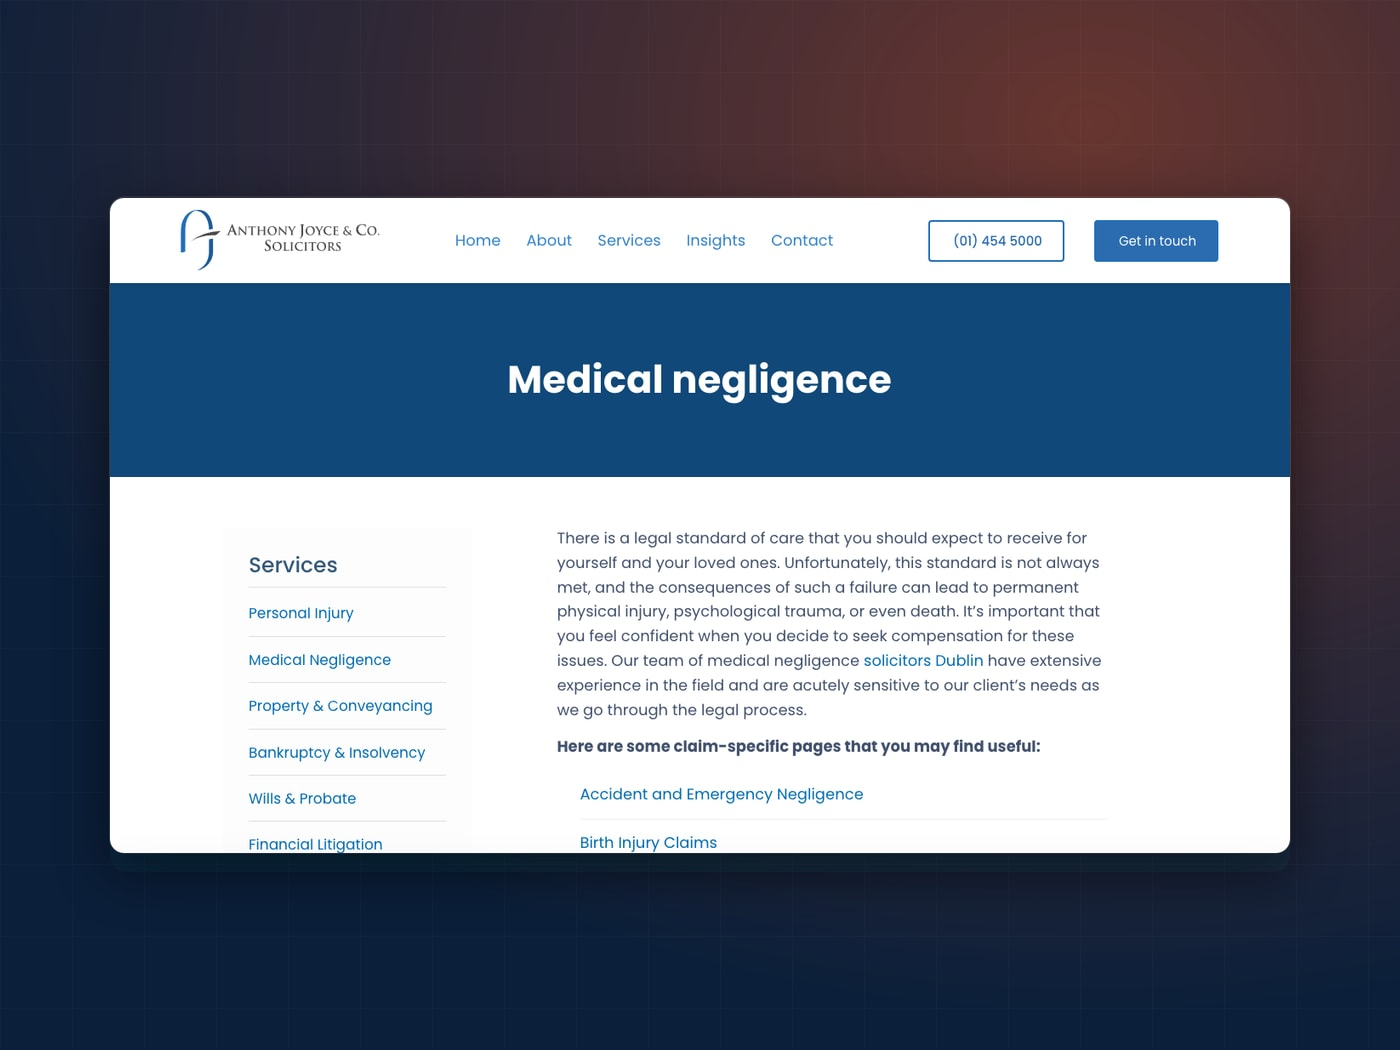
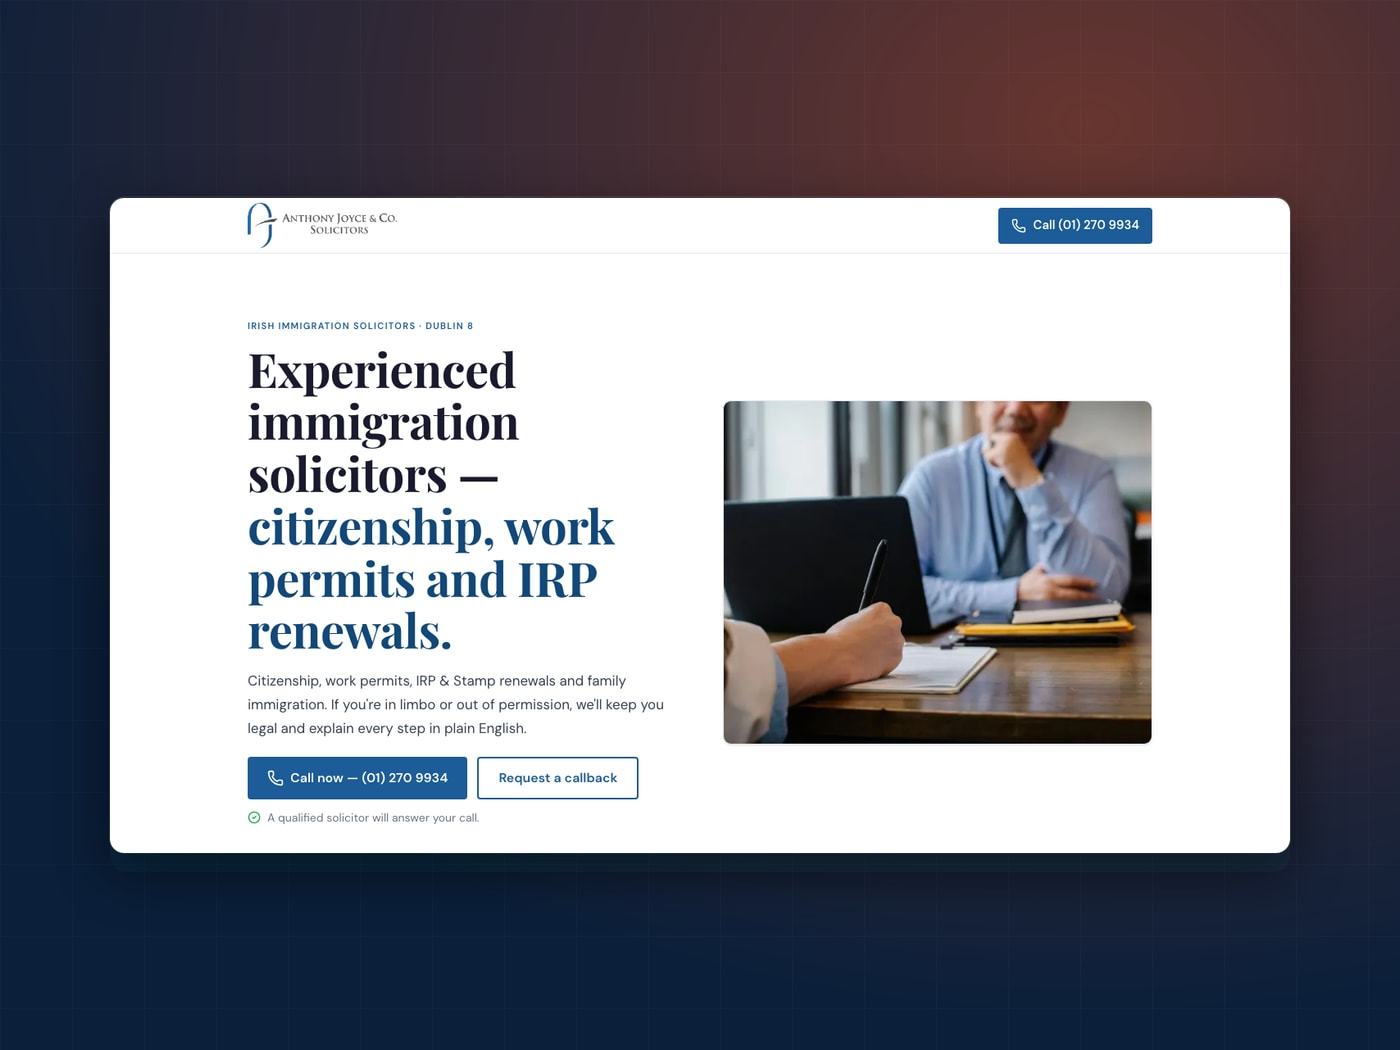
feat(work): the actual landing pages, not the clients' main sites
immigration.anthonyjoyce.ie      was anthonyjoyce.ie/medical-negligence
  trial.byrocktechnologies.com     was byrocktechnologies.com
  saloot.de/collections/speicher   was saloot.de

Descriptions rewritten from what the pages do. The Byrock page recruits
horse owners for a research evaluation of an investigational laminitis
treatment, where nothing about the product can be claimed. The Anthony
Joyce page is immigration work built around a phone number rather than a
form.

Also corrects the client's location. I had written Dublin 1 in three
places; the landing page and the original testimonial both say Dublin 8.

Changed region(s): [[0.0614, 0.1829, 0.9214, 0.8229], [0.3993, 0.7924, 0.5221, 0.8229]]

diff --git a/starkdigital/src/components/v3/Work.tsx b/starkdigital/src/components/v3/Work.tsx
@@ -2,33 +2,34 @@ import Image from 'next/image'
 import Reveal from './Reveal'
 
 /**
- * Each image is a screenshot of the live site, taken at 1440px and set on the
- * brand background. Regenerate them if a client redesigns.
+ * Each image is a screenshot of the live page, taken headless at 1440px and set
+ * on the brand background. These are the landing pages themselves, not the
+ * clients' main sites, because the section claims pages I built.
  */
 const PROJECTS = [
   {
     image: '/images/v3/work-1.jpg',
     client: 'Anthony Joyce & Co.',
-    url: 'anthonyjoyce.ie',
-    sector: 'Solicitors, Dublin',
-    built: 'Practice-area landing pages and Google Ads',
-    note: 'A separate page per practice area, each written for the search that brings the visitor, with call tracking wired back to the campaign that produced the call.',
+    url: 'immigration.anthonyjoyce.ie',
+    sector: 'Solicitors, Dublin 8',
+    built: 'Immigration landing page and the campaign behind it',
+    note: 'Citizenship, work permits and IRP renewals, aimed at people who are out of permission and want to talk to somebody today. So the page is built around the phone number rather than a form, and says plainly that a qualified solicitor answers the call.',
   },
   {
     image: '/images/v3/work-2.jpg',
     client: 'Byrock Technologies',
-    url: 'byrocktechnologies.com',
-    sector: 'Equine health, Ireland',
-    built: 'Site build and a Google Ads funnel',
-    note: 'A treatment for laminitis sold to a small, specific audience. When the addressable market is that narrow, the page doing its job matters far more than the size of the budget.',
+    url: 'trial.byrocktechnologies.com',
+    sector: 'Veterinary research, Ohio',
+    built: 'Trial recruitment page and paid search',
+    note: 'Recruiting horse owners for a research evaluation of an investigational laminitis treatment. Nothing about the product can be claimed, which removes every normal persuasion lever and leaves the page to do the work through clarity alone.',
   },
   {
     image: '/images/v3/work-3.jpg',
     client: 'Saloot',
     url: 'saloot.de',
     sector: 'E-commerce, Germany',
-    built: 'Shopify storefront and savings calculator',
-    note: 'Balcony solar kits, sold to people who work out the payback period before they buy. So the shop leads with a calculator that answers that question instead of burying it in a spec table.',
+    built: 'Shopify storefront and category pages',
+    note: 'Battery storage for balcony solar, bought by people who work out the payback before they order. The category page leads with capacity, cell chemistry and entry price, then splits into the four decisions a buyer is actually making.',
   },
 ]
 

diff --git a/starkdigital/src/app/case-studies/page.tsx b/starkdigital/src/app/case-studies/page.tsx
@@ -67,7 +67,7 @@ export default function CaseStudiesPage() {
               />
               <div className="absolute bottom-0 left-0 right-0 p-7 md:p-10">
                 <p className="label mb-2" style={{ color: 'var(--color-on-ink-faint)' }}>
-                  Dublin 1 · Legal
+                  Dublin 8 · Legal
                 </p>
                 <p className="display text-on-ink" style={{ fontSize: 'clamp(22px, 2.6vw, 32px)' }}>
                   Anthony Joyce &amp; Co. Solicitors

diff --git a/starkdigital/src/components/v3/CaseStudy.tsx b/starkdigital/src/components/v3/CaseStudy.tsx
@@ -39,7 +39,7 @@ export default function CaseStudy() {
                 Anthony Joyce &amp; Co. Solicitors
               </p>
               <p className="text-on-ink text-lg md:text-xl font-semibold leading-snug max-w-sm">
-                Personal injury and medical negligence, Dublin 1
+                Immigration law, Dublin 8
               </p>
             </div>
           </Reveal>
